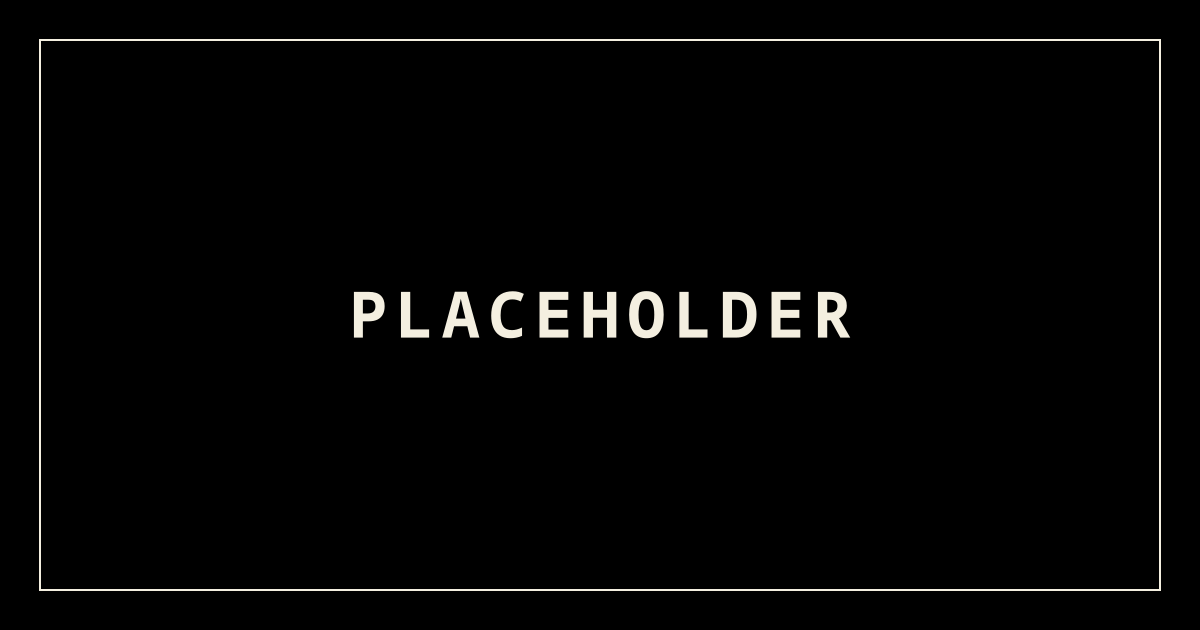
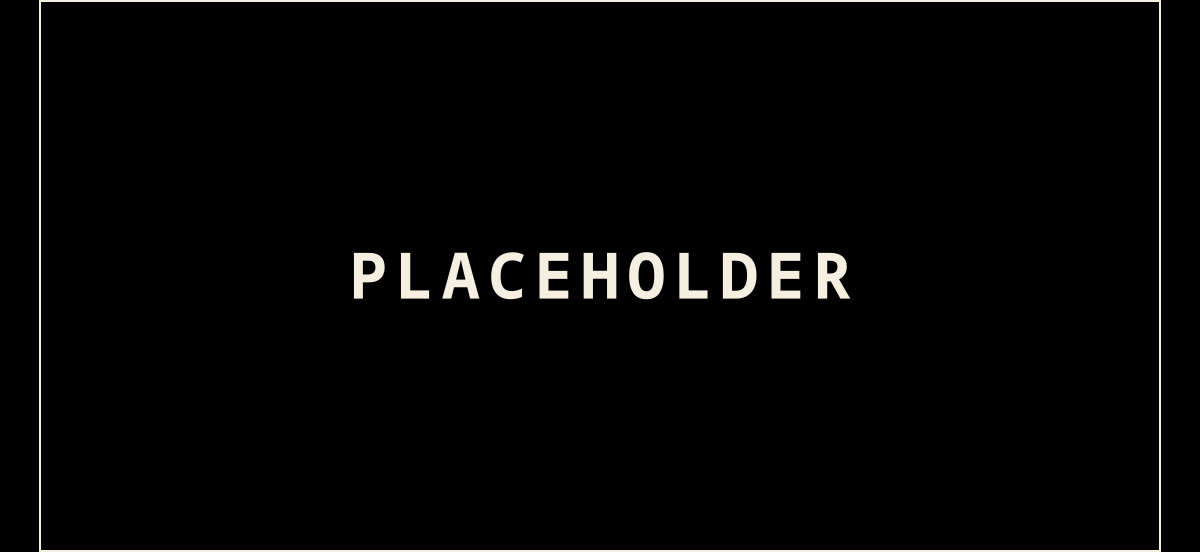
fix: blue question callouts, a stop sign on important, tighter captions

diff --git a/src/styles/code-and-callouts.css b/src/styles/code-and-callouts.css
@@ -96,6 +96,14 @@
   --callout-color: var(--brand-red);
 }
 
+/* Asking the reader something is not a warning, and the theme paints question,
+ * help and faq the same orange as warning, so a genuine caution and an open
+ * question were indistinguishable at a glance. Blue is the site's neutral
+ * "think about this" colour, already used by links and tables. */
+.callout:is([data-callout='question'], [data-callout='help'], [data-callout='faq']) {
+  --callout-color: var(--brand-blue);
+}
+
 /* The title band: a tint of the callout's colour, separated from the body by
  * a border in the same colour. Fixes the icon and text colour for dark mode
  * as a side effect, since the upstream rule only ever used the light value. */
